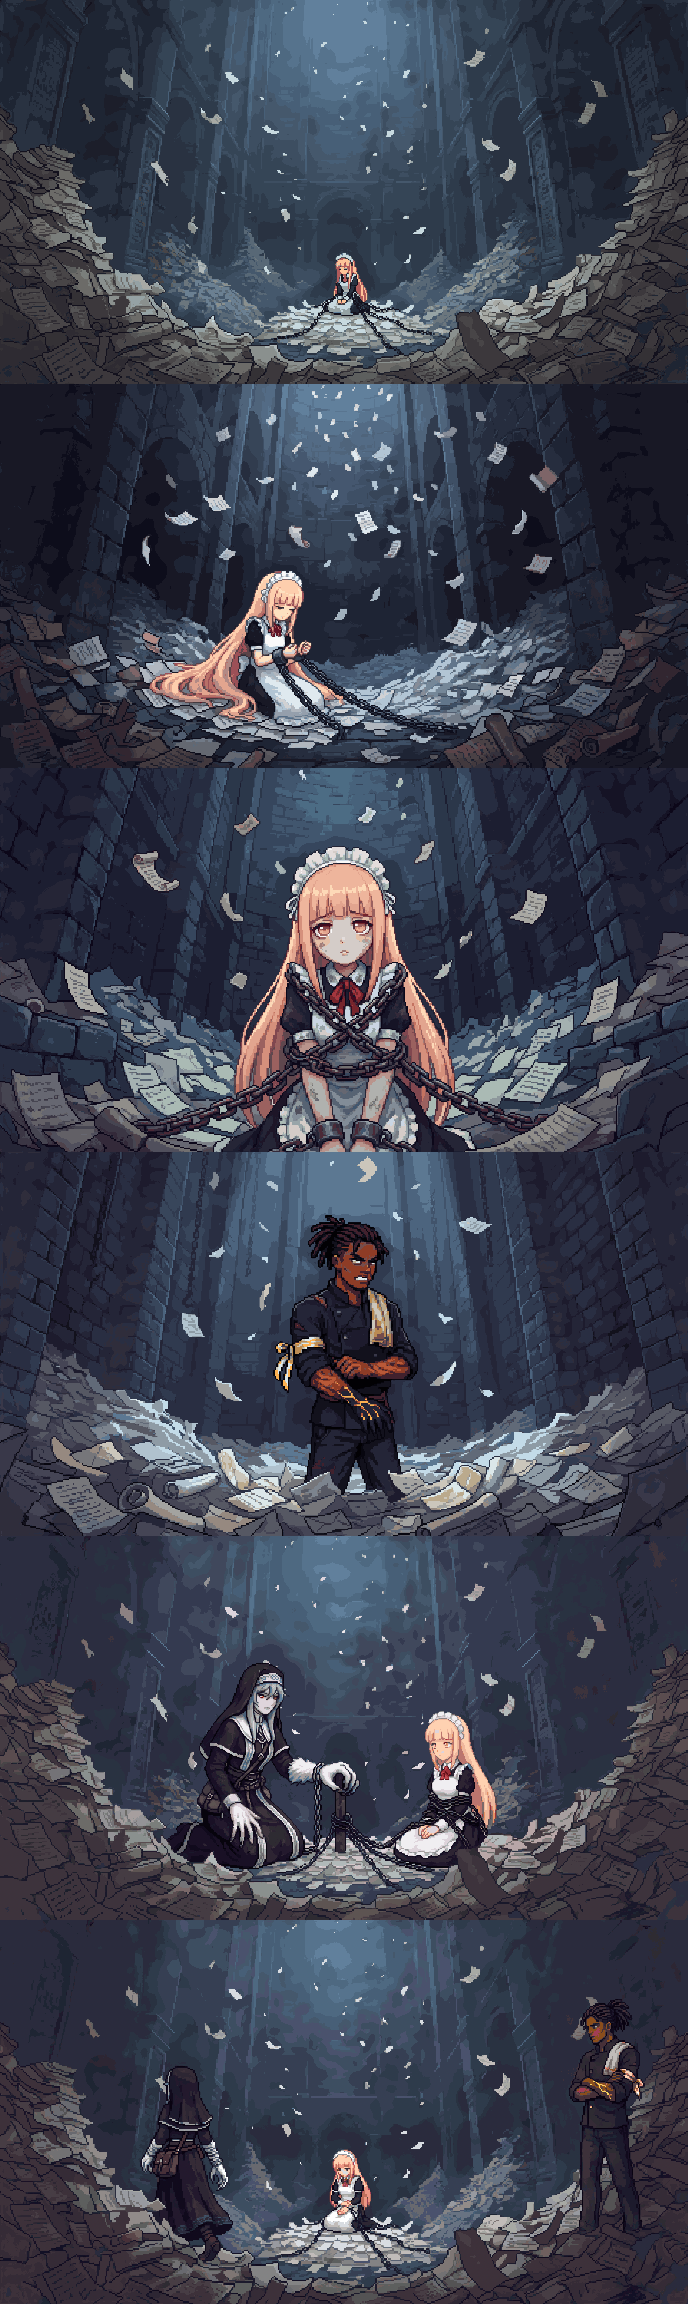
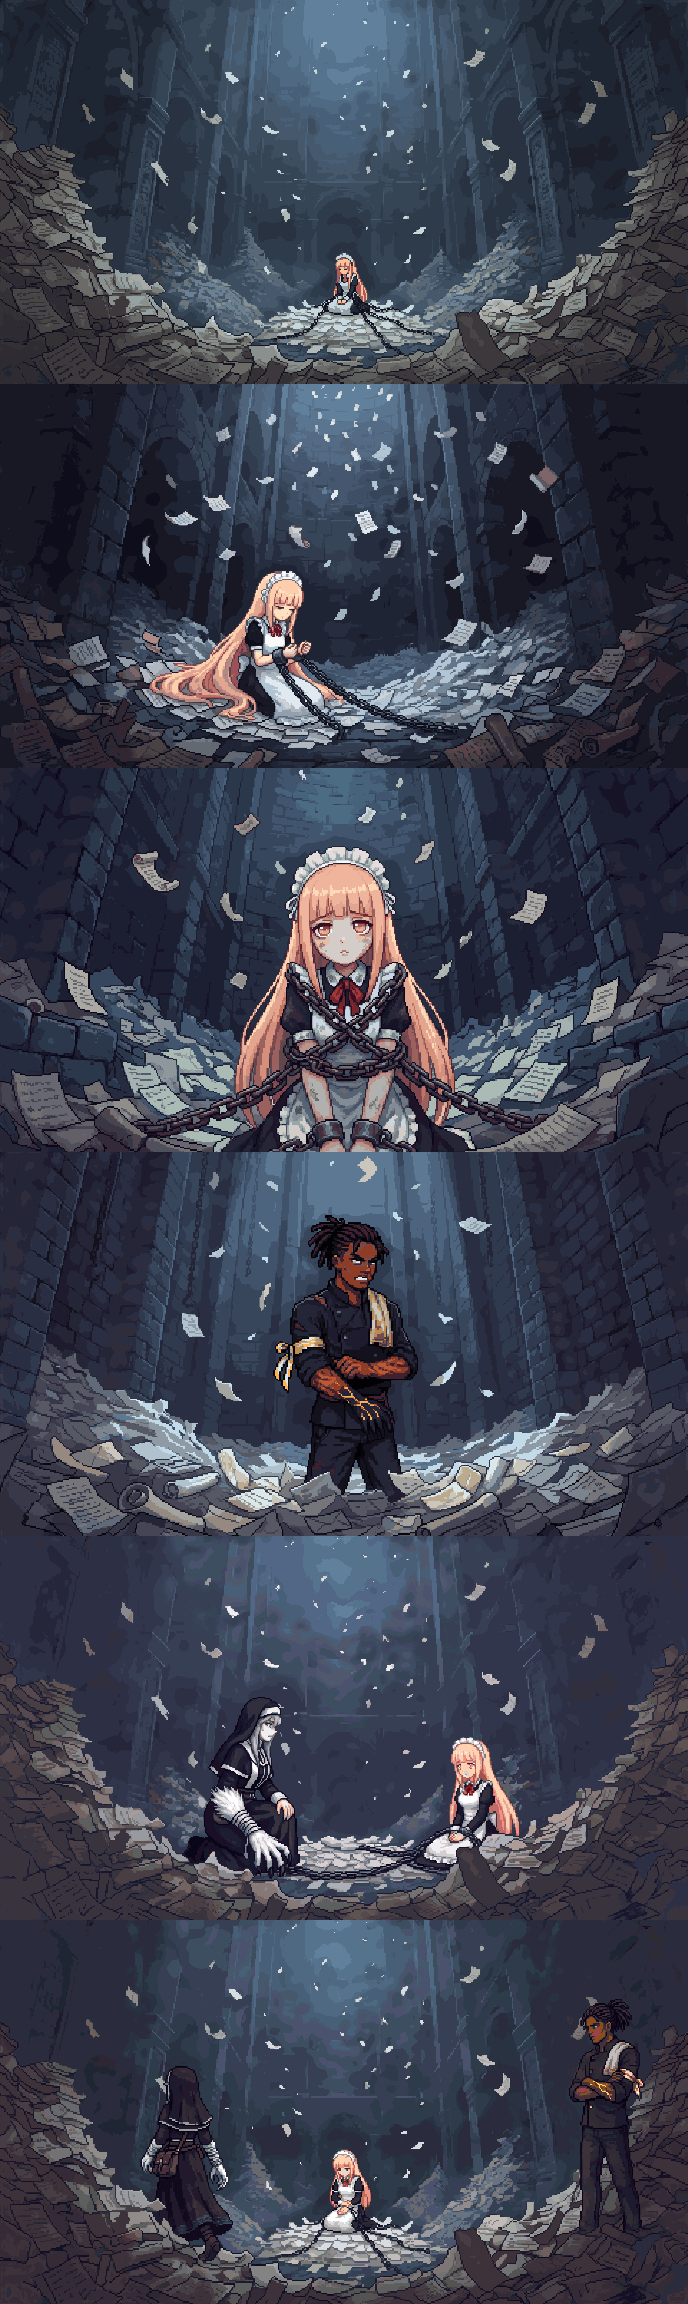
Redraw uptima-in-chains shot 5 with Mira's wolf arm on her right
Claude-Session: https://claude.ai/code/session_01Mqbwb3vBTod3APyq2XNhsx

Changed region(s): [[0.0, 0.7188, 1.0, 0.8438], [0.2137, 0.7188, 0.2442, 0.75]]

diff --git a/game/CREDITS.md b/game/CREDITS.md
@@ -23,7 +23,7 @@ Everything here was first made for or gathered by the first game, [Isekai'd Into
 | Chapters 2 to 6's recurring cast in dialogue (`assets/img/portraits/` `coo-*`, `seymour-*`, `faithful-*` (Elder Wren), `marrow-*`, `tilly-*`, `anselm-*`, `hale-*`, `pip-*`, `bru-*`, `kagemaru-*`, `hana-*`, `wen-*`, `noor-*`, `ash-*` (Mother Ash), `selvaria-*`, `aurelian-*`, `lexi-*`, `gu-*` (Old Gu), `namgung-*`, `ok-*` (Madam Ok), `jin-*`, `ashgrove-*`, `theo-*`, `iris-*`, `pella-*`, `ayo-*`, `kaito-*`, `cron-*`, `gary-neutral`, `aigerim-*`, `mio-*`, `chad-*`) | Generated for this game with [PixelLab](https://pixellab.ai) on Ladi's subscription on 2026-10-21: each neutral drawn from a written description of the character (Story Bible and the first game's look) with one of the leads' portraits as the style image (`create-image-pro-flash`), and each second face a text edit of that neutral (`edit-image-pro-flash`), scaled up 3x with hard pixel edges | Used under PixelLab's [Terms of Service](https://pixellab.ai/termsofservice) | Faces in dialogue from chapter 2 on |
 | The first game's people seven years on, and Grandma Wen as she always looks (`assets/img/portraits/` `aigerim-neutral`, `ayo-neutral`, `bru-smile`, `bru-neutral`, `chad-neutral`, `gary-neutral`, `kaito-neutral`, `mio-neutral`, `wen-neutral`, `wen-smile`, replacing those in the row above) | Generated for this game with [PixelLab](https://pixellab.ai) on Ladi's subscription on 2026-10-21 (`generate-image-v2`): each drawn from the character's first-game portrait (Isekai'd Into Prod) as the likeness, aged seven years (Wen not at all), with this game's earlier portrait as the style image; Ladi's picks, scaled up 3x with hard pixel edges. `bru-neutral` is `bru-smile` with the mouth and cheeks repainted to a neutral face by Google's Gemini image model (gemini-3-pro-image-preview) through the Gemini API on Ladi's account, snapped back to the portrait's own pixels and colours | Used under PixelLab's [Terms of Service](https://pixellab.ai/termsofservice) and the [Gemini API Additional Terms of Service](https://ai.google.dev/gemini-api/terms) | Faces in dialogue |
 | Chapter 5's cutscenes from Lina's Voice to the Lanterns Go Out, and all of Chapter 6's (`assets/img/cut/` `linas-voice`, `linas-voice-dawn`, `the-ledgers`, `the-button`, `a-deal`, `backoff`, `turned-on`, `the-record`, `the-record-ev1`, `the-record-ev2`, `the-record-dark`, `the-shift`, `the-rail`, `the-rail-hold`, `the-rail-let`, `she-nearly-did`, `the-lanterns-go-out`, `the-day-gary-quit`, `the-offer-on-the-jetty`, `the-mirror`, `the-ring-in-the-bunker`, `the-clock-room-intro`, `the-clock-room`, `the-confrontation`, `the-confrontation-shore`, `the-confrontation-copy`, `the-confrontation-bravo`, `no-my-lady`, `switched-sides`, `kagemarus-choice`, `the-backlog`, `the-freed-floors`, each a sheet of 16:9 shots) | Generated for this game with [PixelLab](https://pixellab.ai) on Ladi's subscription on 2026-10-22 (`generate-image-v2`), one still per storyboard shot (`storyboard/ch5`, `storyboard/ch6`), with the cast's portraits as likeness references (young Gary in 1984 from his first-game portrait); `the-mirror` shots 3 and 11 mirrored on 2026-10-24 so Mira's wolf arm is on her right; a few stills touched up by Google's Gemini image model (gemini-3-pro-image-preview) through the Gemini API on Ladi's account. Stacked into sheets by the cutscene pipeline's `gen.py --export` | Used under PixelLab's [Terms of Service](https://pixellab.ai/termsofservice) and the [Gemini API Additional Terms of Service](https://ai.google.dev/gemini-api/terms) | Chapter 5 and 6 cutscenes (`js/cut-ch5b.js`, `js/cut-ch6.js`) |
-| Chapter 2's cutscene stills (`assets/img/cut/` `floor-seven`, `freya-visits`, `hale-escapes`, `she-did-my-taxes`, `sunlight`, `the-dispatches`, `the-grey-novice`, `thornwick-freed`, `three-one-four-cart`, `tilly`, `two-prayers`, `unmake-it`, `uptima-in-chains`, `uptima-reads-the-prayer`, `what-he-felt`, each a sheet of 16:9 shots, and the ghost frames `freya-back` and `freya-projection`) | Generated for this game with [PixelLab](https://pixellab.ai) on Ladi's subscription on 2026-10-22 (`generate-image-v2`), one still per storyboard shot (`storyboard/ch2`), with the cast's portraits as likeness references; `three-one-four-cart` redrawn the same day under its own name. Stacked into sheets by the cutscene pipeline's `gen.py --export` | Used under PixelLab's [Terms of Service](https://pixellab.ai/termsofservice) | Chapter 2's cutscenes, in place of the vector stills (`js/cut-ch2.js`) |
+| Chapter 2's cutscene stills (`assets/img/cut/` `floor-seven`, `freya-visits`, `hale-escapes`, `she-did-my-taxes`, `sunlight`, `the-dispatches`, `the-grey-novice`, `thornwick-freed`, `three-one-four-cart`, `tilly`, `two-prayers`, `unmake-it`, `uptima-in-chains`, `uptima-reads-the-prayer`, `what-he-felt`, each a sheet of 16:9 shots, and the ghost frames `freya-back` and `freya-projection`) | Generated for this game with [PixelLab](https://pixellab.ai) on Ladi's subscription on 2026-10-22 (`generate-image-v2`), one still per storyboard shot (`storyboard/ch2`), with the cast's portraits as likeness references; `three-one-four-cart` redrawn the same day under its own name. `uptima-in-chains` shot 5 redrawn on 2026-10-24 with Mira's wolf arm on her right. Stacked into sheets by the cutscene pipeline's `gen.py --export` | Used under PixelLab's [Terms of Service](https://pixellab.ai/termsofservice) | Chapter 2's cutscenes, in place of the vector stills (`js/cut-ch2.js`) |
 | Chapter 2's first-half cutscene stills (`assets/img/cut/` `brams-wagon`, `the-edge`, `the-tower`, `the-scrap-field`, `the-bunker`, `elder-wren`, `the-first-fire`, `thornwick-square`, `the-post-box`, `mira-doesnt-answer`, `the-sorting-floors`, `floors-grow-back`, `shipped`, each a sheet of 16:9 shots) | Generated for this game with [PixelLab](https://pixellab.ai) on Ladi's subscription on 2026-10-22 (`generate-image-v2`), one still per storyboard shot (`storyboard/ch2a`), with the cast's portraits as likeness references (Coo, Elder Wren and Pip from their portraits); `the-bunker` shot 4 (Mira at the hatch) redrawn the same way on 2026-10-24 to give her one arm from each shoulder. Stacked into sheets by the cutscene pipeline's `gen.py --export` | Used under PixelLab's [Terms of Service](https://pixellab.ai/termsofservice) | Chapter 2's first-half cutscenes, in place of the vector stills (`js/cut-ch2a.js`) |
 | The last drawn cutscenes of Chapters 5 and 6 (`assets/img/cut/` `iris-at-the-gate`, `linas-chart`, `freya-at-camp`, each a sheet of 16:9 shots) | Generated for this game with [PixelLab](https://pixellab.ai) on Ladi's subscription on 2026-10-23 (`generate-image-v2`), one still per storyboard shot (`storyboard/ch56x`), with the cast's portraits as likeness references. Stacked into sheets by the cutscene pipeline's `gen.py --export` | Used under PixelLab's [Terms of Service](https://pixellab.ai/termsofservice) | Professor Iris Vell, Lina's chart and Freya at camp, in place of the vector backdrops (`js/cut-ch56x.js`) |
 | The painted glitch twins (`assets/img/cut/<cutscene>-<shot>-painted.webp`: `uptima-in-chains-3`, `freya-visits-3`, `thornwick-freed-1`, `the-jar-2`, `tell-her-yourself-4`, `jins-echo-4`, `two-tapes-one-4`, `the-ledgers-2`, `the-offer-on-the-jetty-4`, `the-mirror-2`) | Painted for this game by Google's Gemini image model (gemini-3-pro-image-preview) through the Gemini API on Ladi's account on 2026-10-22, each from its pixel still as the reference so the two line up (the cutscene pipeline's `paint.py`); `uptima-in-chains-3` is the earlier painted version of that shot | Used under the [Gemini API Additional Terms of Service](https://ai.google.dev/gemini-api/terms) | The glitch between painted and pixel art in those shots (`js/cut-ch2.js` to `cut-ch6.js`) |
